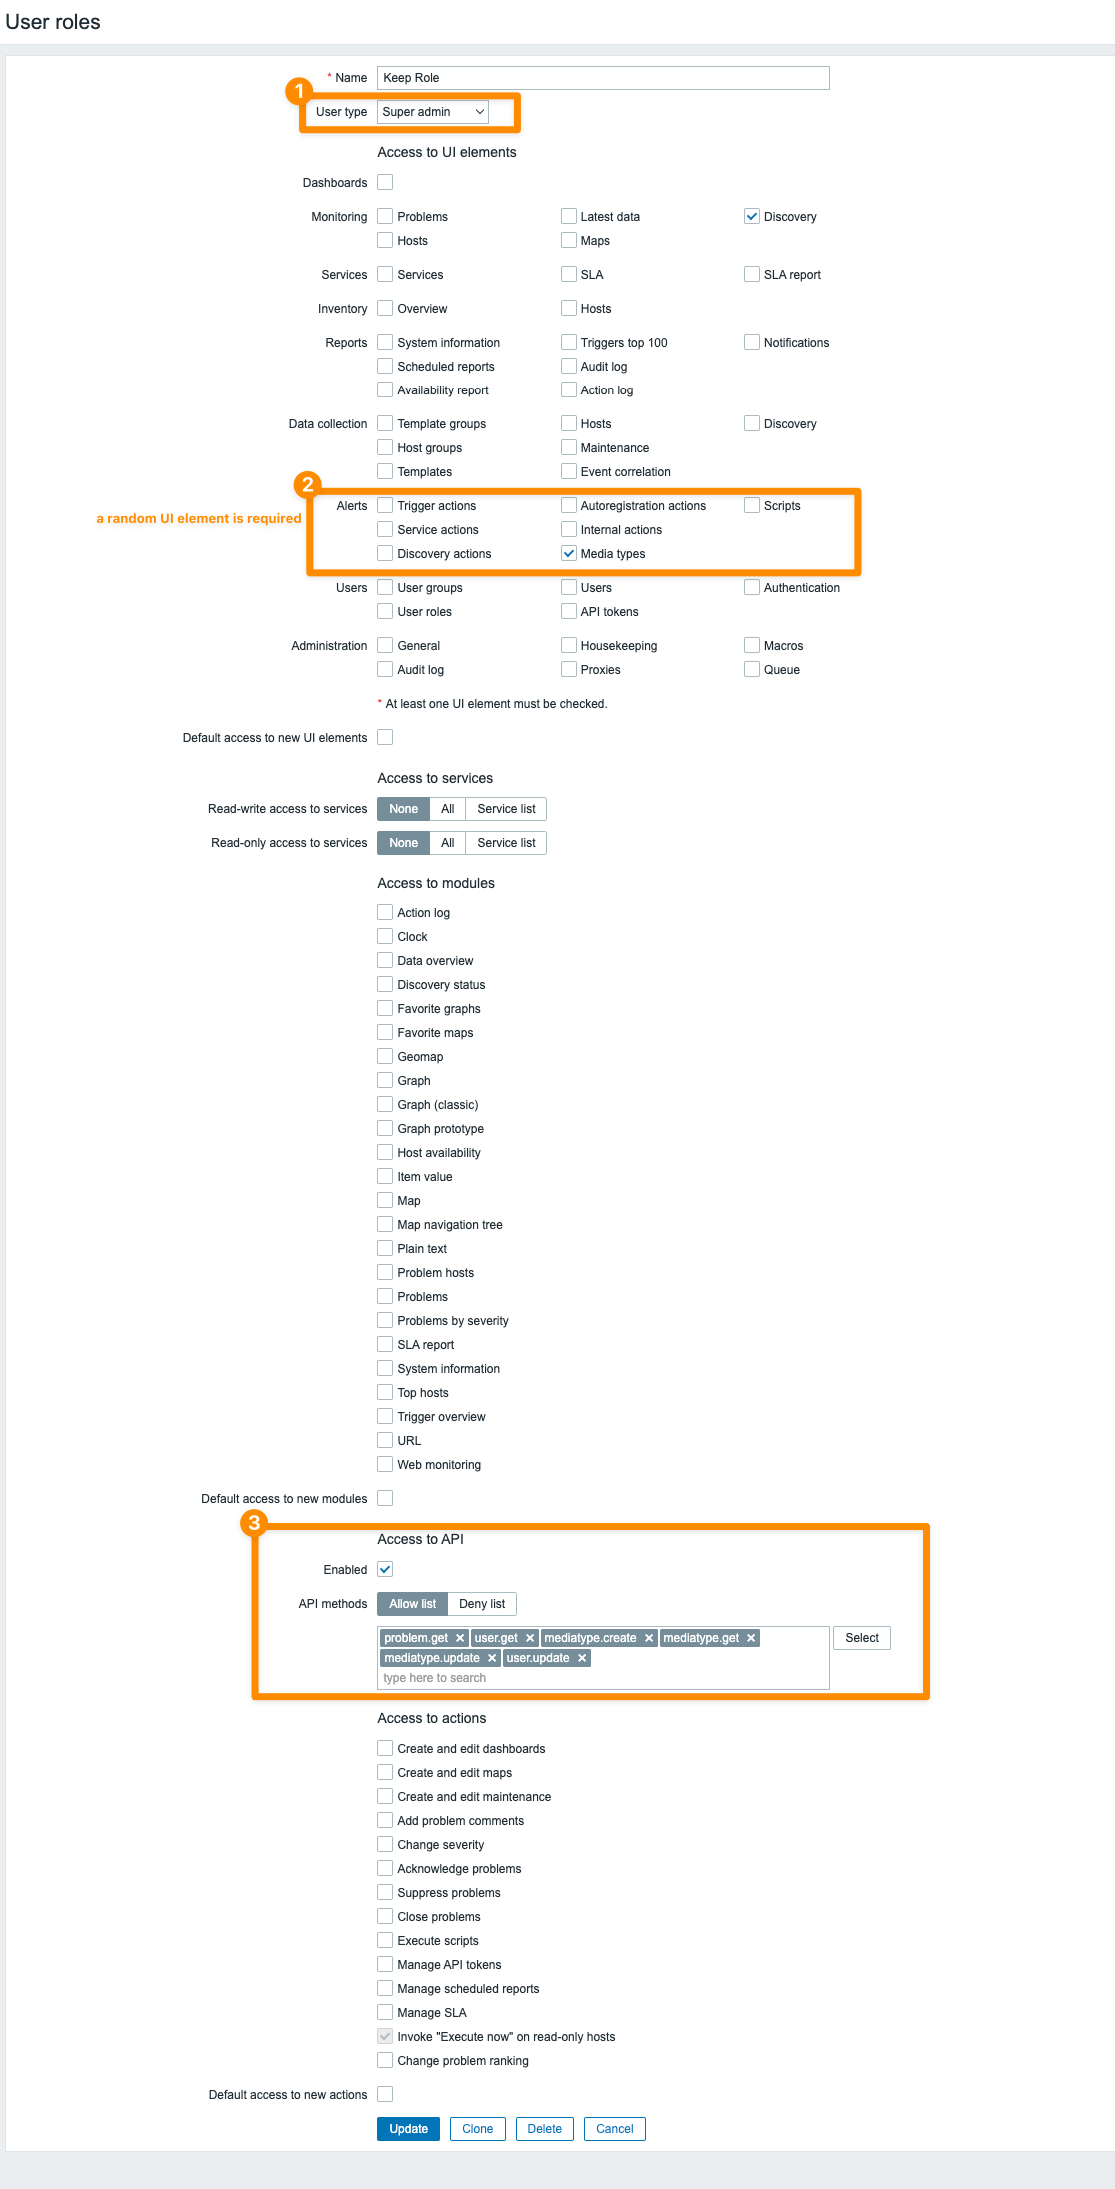
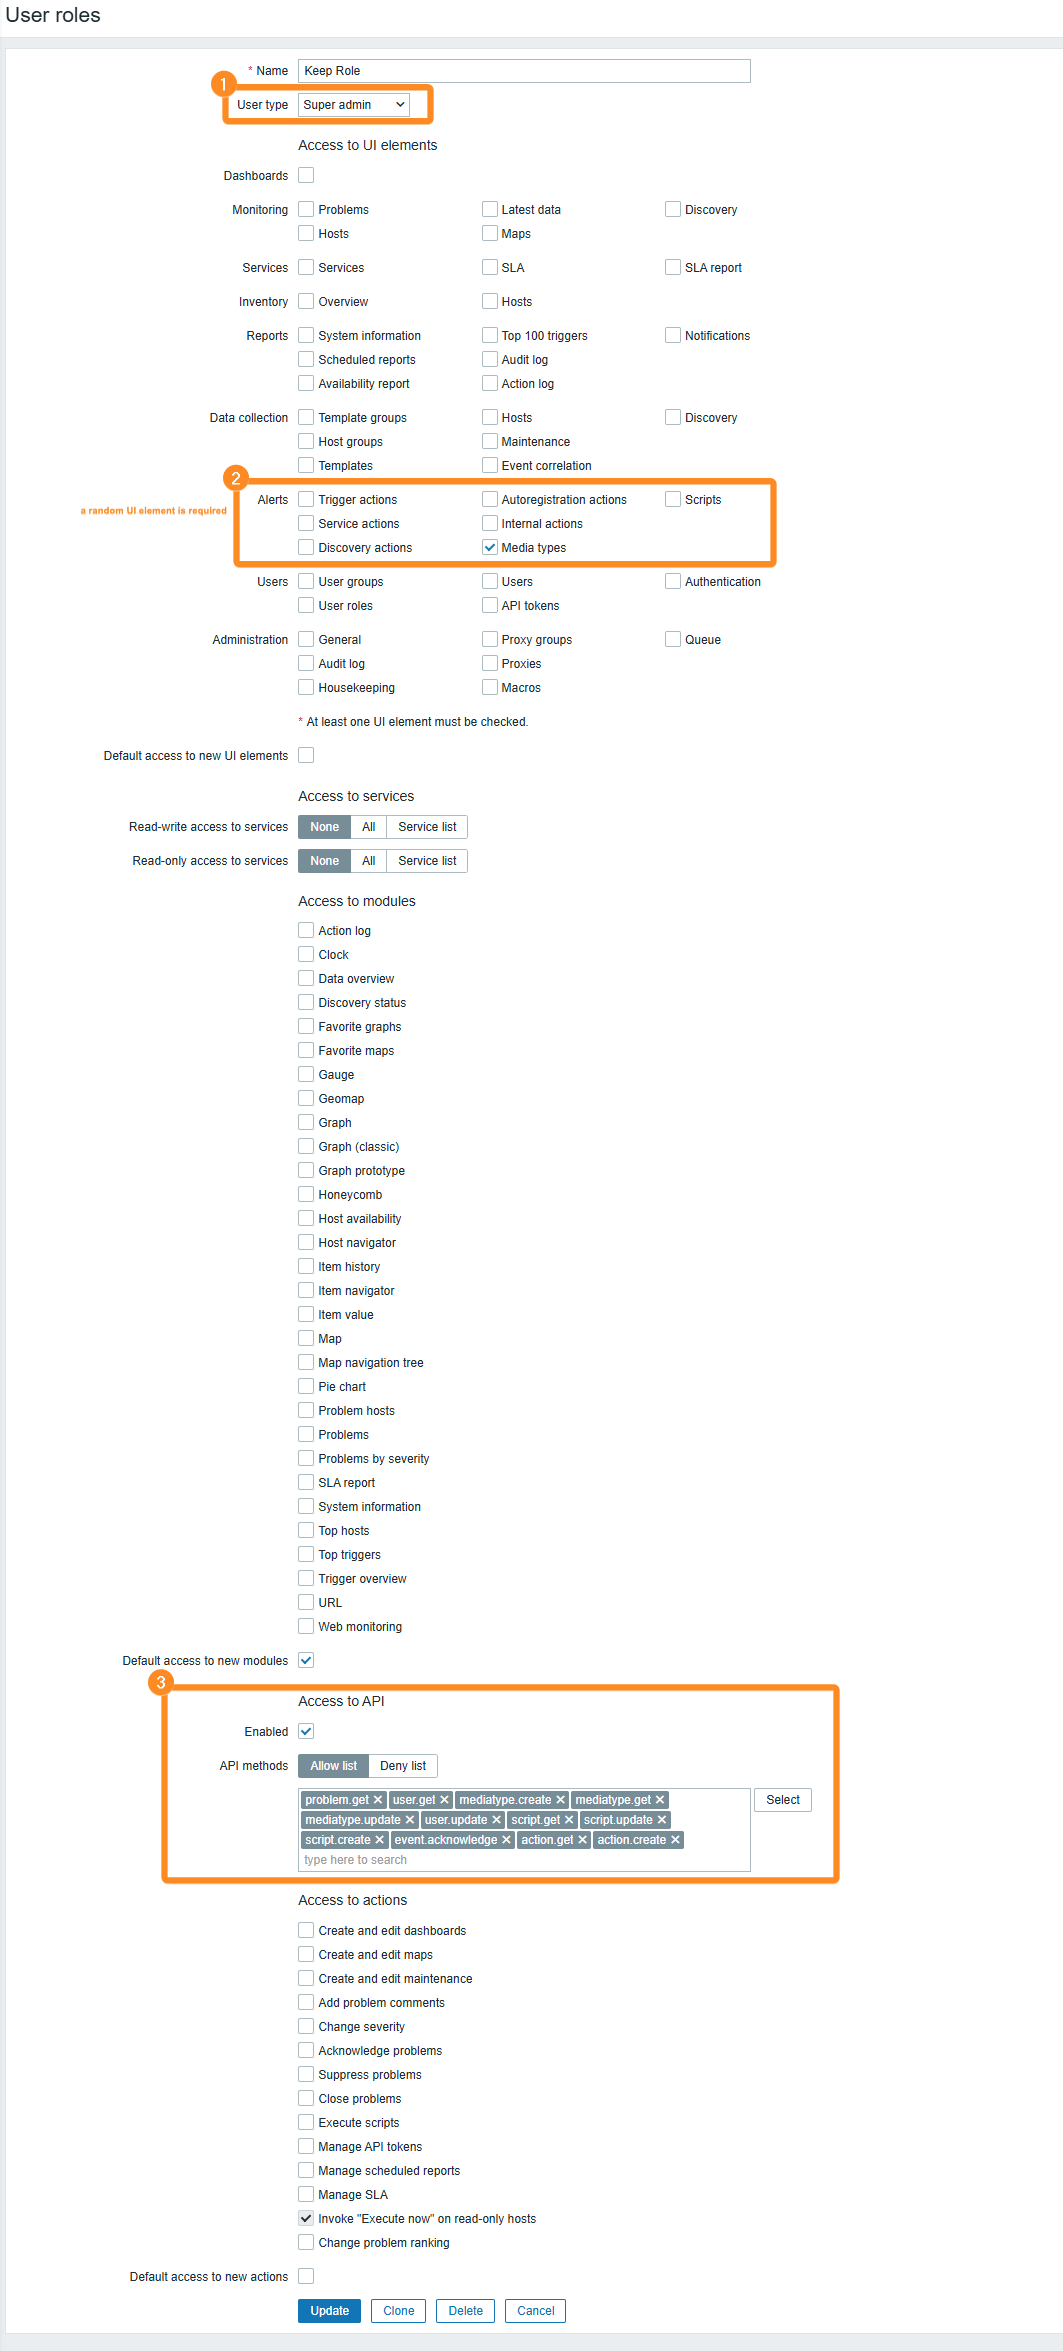
docs: update required Zabbix scopes (#4704)

Changed region(s): [[0.0931, 0.0311, 0.8382, 0.9941], [0.0, 0.0, 0.0931, 0.0311], [0.1242, 0.963, 0.1552, 0.9941]]

diff --git a/keep/providers/zabbix_provider/zabbix_provider.py b/keep/providers/zabbix_provider/zabbix_provider.py
@@ -69,37 +69,88 @@ class ZabbixProvider(BaseProvider):
     )
     PROVIDER_SCOPES = [
         ProviderScope(
-            name="problem.get",
-            description="The method allows to retrieve problems.",
+            name="action.create",
+            description="This method allows to create new actions.",
             mandatory=True,
-            mandatory_for_webhook=False,
-            documentation_url="https://www.zabbix.com/documentation/current/en/manual/api/reference/problem/get",
+            mandatory_for_webhook=True,
+            documentation_url="https://www.zabbix.com/documentation/current/en/manual/api/reference/action/create",
         ),
         ProviderScope(
-            name="script.get",
-            description="The method allows to retrieve media types.",
-            mandatory=False,
+            name="action.get",
+            description="This method allows to retrieve actions.",
+            mandatory=True,
             mandatory_for_webhook=True,
-            documentation_url="https://www.zabbix.com/documentation/current/en/manual/api/reference/mediatype/get",
-        ),
-        ProviderScope(
-            name="script.update",
-            description="This method allows to update existing media types.",
-            mandatory=False,
-            mandatory_for_webhook=True,
-            documentation_url="https://www.zabbix.com/documentation/current/en/manual/api/reference/mediatype/update",
-        ),
-        ProviderScope(
-            name="script.create",
-            description="This method allows to create new media types.",
-            mandatory=False,
-            mandatory_for_webhook=True,
-            documentation_url="https://www.zabbix.com/documentation/current/en/manual/api/reference/mediatype/create",
+            documentation_url="https://www.zabbix.com/documentation/current/en/manual/api/reference/action/get",
         ),
         ProviderScope(
             name="event.acknowledge",
             description="This method allows to update events.",
+            mandatory=True,
+            mandatory_for_webhook=True,
             documentation_url="https://www.zabbix.com/documentation/current/en/manual/api/reference/event/acknowledge",
+        ),
+        ProviderScope(
+            name="mediatype.create",
+            description="This method allows to create new media types.",
+            mandatory=True,
+            mandatory_for_webhook=True,
+            documentation_url="https://www.zabbix.com/documentation/current/en/manual/api/reference/mediatype/create",
+        ),
+        ProviderScope(
+            name="mediatype.get",
+            description="This method allows to retrieve media types.",
+            mandatory=True,
+            mandatory_for_webhook=True,
+            documentation_url="https://www.zabbix.com/documentation/current/en/manual/api/reference/mediatype/get",
+        ),
+        ProviderScope(
+            name="mediatype.update",
+            description="This method allows to update media types.",
+            mandatory=True,
+            mandatory_for_webhook=True,
+            documentation_url="https://www.zabbix.com/documentation/current/en/manual/api/reference/mediatype/update",
+        ),
+        ProviderScope(
+            name="problem.get",
+            description="The method allows to retrieve problems.",
+            mandatory=True,
+            mandatory_for_webhook=True,
+            documentation_url="https://www.zabbix.com/documentation/current/en/manual/api/reference/problem/get",
+        ),
+        ProviderScope(
+            name="script.create",
+            description="This method allows to create new scripts.",
+            mandatory=True,
+            mandatory_for_webhook=True,
+            documentation_url="https://www.zabbix.com/documentation/current/en/manual/api/reference/script/create",
+        ),
+        ProviderScope(
+            name="script.get",
+            description="The method allows to retrieve scripts.",
+            mandatory=True,
+            mandatory_for_webhook=True,
+            documentation_url="https://www.zabbix.com/documentation/current/en/manual/api/reference/script/get",
+        ),
+        ProviderScope(
+            name="script.update",
+            description="This method allows to update scripts.",
+            mandatory=True,
+            mandatory_for_webhook=True,
+            documentation_url="https://www.zabbix.com/documentation/current/en/manual/api/reference/script/update",
+        ),
+        ProviderScope(
+            name="user.get",
+            description="This method allows to retrieve users.",
+            mandatory=True,
+            mandatory_for_webhook=True,
+            documentation_url="https://www.zabbix.com/documentation/current/en/manual/api/reference/user/get",
+        ),
+        ProviderScope(
+            name="user.update",
+            description="This method allows to update users.",
+            mandatory=True,
+            mandatory_for_webhook=True,
+            documentation_url="https://www.zabbix.com/documentation/current/en/manual/api/reference/user/update",
         ),
     ]
     PROVIDER_METHODS = [
